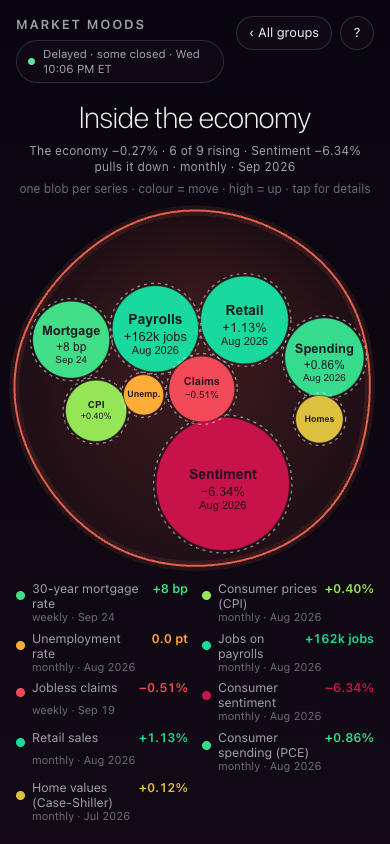
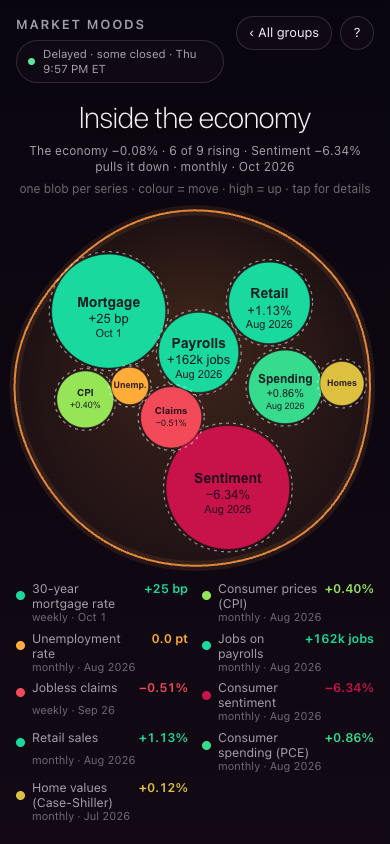
Clark 10-01: Central banks group (IMF IRFCL gold, COFER, BIS + FRED balance sheets), trade by country, more shipping, two rows at every width
- cbanks: 16 live keyless series; Russia + crypto listed as missing with reasons. check.js pins each to its real-world band (a unit slip is 1000x), trade balances to $ million under $60 bn; both mutation-tested RED.
- front page: economy row always under the stocks (Clark: "2 rows, not one long one"); radius capped by free height on wide screens; economy-check asserts every economy label under every index label (mutant RED).
- loop.sh: econ hours (Sun 18:00-Fri 17:00 ET) instead of "always"; LOOP_FORCE=chain proves the dispatch hand-off; market grace to 16:25.

diff --git a/index.html b/index.html
@@ -271,7 +271,7 @@
     <dt>Colour</dt><dd>Today's move from yesterday's close. Red is falling, amber is flat, green is rising.</dd>
     <dt>Height</dt><dd>Rising indexes float up; falling ones sink. The top and bottom of the lamp are a 1% move.</dd>
     <dt>Size</dt><dd>Bigger means a bigger move either way. A quiet index is a small blob.</dd>
-    <dt>Economy</dt><dd>The smaller blobs on the right are the economy's groups: energy, metals, farm goods, rates and the dollar, the slow numbers, debt and money, and shipping and trade. Same colour, height and size rules; each shows its latest move (they do not replay the day), and some are weekly, monthly, quarterly or yearly numbers. On a phone they ride in their own lower row. Tap one, or its name, to see its members.</dd>
+    <dt>Economy</dt><dd>The smaller blobs in the lower row are the economy's groups: energy, metals, farm goods, rates and the dollar, the slow numbers, debt and money, shipping and trade, and the central banks. Same colour, height and size rules; each shows its latest move (they do not replay the day), and some are weekly, monthly, quarterly or yearly numbers. They ride in their own row below the four indexes. Tap one, or its name, to see its members.</dd>
     <dt>Motion</dt><dd>How choppy the last hour was. A steady index drifts slowly and stays whole; a choppy one churns and throws off droplets.</dd>
     <dt>Mood</dt><dd>The average move of the four: Fearful, Uneasy, Calm, Buoyant or Euphoric.</dd>
     <dt>Fear</dt><dd id="helpFear">The VIX, the market's own fear gauge.</dd>
@@ -672,14 +672,14 @@
 
   function draw() {
     const W = canvas.width, H = canvas.height, aspect = W / H;
-    // wide screens: index lanes full width, economy lanes 0.6 of one, a half-lane gap between the two
-    // families so their wax fields never fuse. Narrow (phone): stocks ride the upper row and the
-    // economy the lower one, each family spread over the whole width, each with its own up/down band.
-    const stacked = econ.length > 0 && aspect < 0.8;
+    // Stocks ride the upper row and the economy the lower one, each family spread over the whole width, each with its own up/down band.
+    const stacked = econ.length > 0;   // two rows at EVERY width (Clark 10-01: "2 rows, not one long one")
     const EW = 0.6, GAP = econ.length && !stacked ? 0.5 : 0;
     const laneW = stacked ? aspect / 4 : aspect / (4 + GAP + EW * econ.length);
     const wE = stacked ? aspect / Math.max(1, econ.length) : laneW * EW, x0E = stacked ? 0 : (4 + GAP) * laneW;
-    const baseR = Math.min(laneW * 0.34, 0.095) * pulseNow;   // the heartbeat: exactly 1 when pulseAmp is 0
+    // two rows must fit the free height between the mood block and the timeline: on a wide screen the old 0.095
+    // radius filled it with the stocks alone, so cap the radius by that height (phones stay lane-limited).
+    const free = travel(0), baseR = Math.min(laneW * 0.34, 0.095, (free[1] - free[0]) * 0.13) * pulseNow;   // the heartbeat: exactly 1 when pulseAmp is 0
     const band = travel(baseR * 1.4 * 1.25);   // biggest blob (size 1.4) with its droplets bunched: body edge at (Σr⁴)^¼ ≈ 1.23 R
     const span = band[1] - band[0];
     const bandI = stacked ? [band[0] + span * 0.55, band[1]] : band, bandE = stacked ? [band[0], band[0] + span * 0.22] : band;
@@ -709,7 +709,7 @@
         cols[n * 3] = L.col[0]; cols[n * 3 + 1] = L.col[1]; cols[n * 3 + 2] = L.col[2];
         n++;
       });
-      L.tagX = cx / aspect; L.tagY = isE && stacked ? bandE[0] - wE * 0.36 - 0.045 : low - 0.035;   // under the blob; a phone's economy row shares one baseline
+      L.tagX = cx / aspect; L.tagY = isE && stacked ? bandE[0] - Math.min(wE * 0.36, baseR * 1.4 * 0.75) - 0.045 : low - 0.035;   // under the blob; a phone's economy row shares one baseline
       top[isE ? 1 : 0] = Math.max(top[isE ? 1 : 0], L.hy + (L.hitR || 0) / 1.5);
     });
     // captions glide with small bobs and snap on a first sight or a big change (data just arrived)

diff --git a/check.js b/check.js
@@ -240,7 +240,7 @@ ok(M.econSlow({ freq: "monthly" }) && M.econSlow({ freq: "weekly" }) && !M.econS
   if (!fs.existsSync(ef)) console.log("… data/economy.json missing: the economy page shows its honest 'couldn't load' notice");
   else {
     const e = JSON.parse(fs.readFileSync(ef, "utf8")), today = Date.now() / 1000, day = 86400;
-    ok(e.groups.map(g => g.key).join() === "energy,metals,farm,rates,macro,debt,shipping", "economy: the seven groups, in order: " + e.groups.map(g => g.key));
+    ok(e.groups.map(g => g.key).join() === "energy,metals,farm,rates,macro,debt,shipping,cbanks", "economy: the eight groups, in order: " + e.groups.map(g => g.key));
     const seen = new Set(), all = [];
     for (const g of e.groups) {
       ok(g.members.length >= 3, `${g.key}: at least 3 members live (${g.members.length})`);
@@ -272,6 +272,19 @@ ok(M.econSlow({ freq: "monthly" }) && M.econSlow({ freq: "weekly" }) && !M.econS
       const live = seen.has(key), miss = e.missing.find(x => x.name.toLowerCase().includes(word.toLowerCase()));
       ok(live || (miss && miss.why.length > 10), `asked-for ${key}: live, or missing with a reason`);
       ok(!(live && miss), `${key}: not both live and missing`);
+    }
+    // central-bank numbers come from a CSV with unit scales (ounces vs tonnes, USD vs local, trillions): a wrong scale is
+    // off by 1000x, so pin each to its real-world band (gold: US ~8,133 t, Germany ~3,350 t, China ~2,300 t; COFER ~$13 tn, USD ~57%)
+    const band = { goldUSA: [7500, 8800], goldDEU: [3000, 3700], goldITA: [2200, 2700], goldFRA: [2200, 2700], goldCHN: [1800, 3500], goldIND: [600, 1200],
+      goldPOL: [300, 1200], goldTUR: [300, 1300], fxReserves: [8, 20], usdShare: [40, 75], fedAssets: [5e6, 9e6], ecbAssets: [4e6, 9e6],
+      boeAssets: [500, 1500], pbocAssets: [30000, 90000], snbAssets: [500, 1500] };
+    for (const [key, [lo, hi]] of Object.entries(band)) {
+      const m = all.find(x => x.key === key);
+      ok(m && m.last >= lo && m.last <= hi, `central banks: ${key} ${m && m.last} sits in its real-world band ${lo}..${hi}`);
+    }
+    for (const c of ["CH", "CA", "MX", "JP", "KR", "UK", "GE", "FR"]) {
+      const m = all.find(x => x.key === "trade" + c);
+      ok(m && m.kind === "bn" && Math.abs(m.last) < 60000, `trade with ${c}: a balance in $ million under $60 bn (${m && m.last})`);
     }
     ok(e.missing.every(x => x.group && x.name && x.why), "economy: every missing series says which group, what, and why");
     ok(all.length >= 20, `economy: ${all.length} series live`);

diff --git a/economy.html b/economy.html
@@ -5,7 +5,7 @@
 <meta name="viewport" content="width=device-width,initial-scale=1,viewport-fit=cover">
 <meta name="theme-color" content="#0a0610">
 <title>Market Moods: the economy</title>
-<meta name="description" content="A moving picture of the economy: energy, metals, farm goods, rates and the dollar, the slow macro numbers, debt and money, and shipping and trade, each group a blob with its members inside.">
+<meta name="description" content="A moving picture of the economy: energy, metals, farm goods, rates and the dollar, the slow macro numbers, debt and money, shipping and trade, and the central banks, each group a blob with its members inside.">
 <style>
   :root { --bg: #0a0610; --ink: #f4ecf7; --ink-2: rgba(244, 236, 247, .66); --ink-3: rgba(244, 236, 247, .42);
     --glass: rgba(20, 12, 26, .55); --line: rgba(244, 236, 247, .14); --up: #5fe39e; --down: #ff6b7a; --flat: #ffb13b; }
@@ -169,7 +169,7 @@
 <dialog id="help" aria-labelledby="helpTitle">
   <h2 id="helpTitle">How to read it</h2>
   <dl>
-    <dt>Blob</dt><dd>One group of alike things: energy, metals, farm goods, rates and the dollar, the economy's slow numbers, debt and money, and shipping and trade. Tap a blob to go inside and see each member.</dd>
+    <dt>Blob</dt><dd>One group of alike things: energy, metals, farm goods, rates and the dollar, the economy's slow numbers, debt and money, shipping and trade, and the central banks. Tap a blob to go inside and see each member.</dd>
     <dt>Colour</dt><dd>The move, on the same scale as the stock lamp: amber is flat, green rising, red falling, full at 1%. It follows the direction of the number, not whether that is good news: rising unemployment is green here, like rising oil.</dd>
     <dt>Height</dt><dd>Up floats, down sinks. Inside a group the reach is 2.5%, as inside a company view.</dd>
     <dt>Size</dt><dd>A bigger move is a bigger blob. There is no market value to size a price by.</dd>

diff --git a/fetch.py b/fetch.py
@@ -23,7 +23,7 @@ company's move from its previous official close, in basis points (0.01%), on tha
 
 usage: fetch.py [--out data/market.json] | fetch.py --companies | fetch.py --selfcheck
 """
-import html, http.cookiejar, json, pathlib, re, sys, time, urllib.request
+import csv, html, http.cookiejar, io, json, pathlib, re, ssl, sys, time, urllib.error, urllib.request
 from datetime import datetime, timedelta, timezone
 from zoneinfo import ZoneInfo
 
@@ -284,10 +284,15 @@ SOURCE_NOTE = {
 MIN_PRICED = {"dow": 27, "sp500": 450, "nasdaq": 400, "russell": 400}
 
 def market_open(now=None):
-    """Pure: is NYSE in its regular session (Mon-Fri 9:30-16:05 ET; 5 min grace for the last bar)?
+    """Pure: is NYSE in its regular session (Mon-Fri 9:30-16:25 ET; the grace after the bell lets one last round catch the closing bars)?
     ponytail: holidays are not modelled - on one the loop just refetches an unchanged file and commits nothing."""
     n = (now or datetime.now(ET)).astimezone(ET)
-    return n.weekday() < 5 and (9, 30) <= (n.hour, n.minute) <= (16, 5)
+    return n.weekday() < 5 and (9, 30) <= (n.hour, n.minute) <= (16, 25)
+
+def econ_open(now=None):
+    """Pure: do the economy's futures trade (CME: Sun 18:00 ET to Fri 17:00 ET)? The daily 1-hour break is ignored."""
+    n = (now or datetime.now(ET)).astimezone(ET); w, hm = n.weekday(), (n.hour, n.minute)   # Mon=0 .. Sun=6
+    return not (w == 5 or (w == 4 and hm >= (17, 0)) or (w == 6 and hm < (18, 0)))
 
 def build_companies(market, index="sp500"):
     ix = next(i for i in market["indexes"] if i["key"] == index)
@@ -373,23 +378,54 @@ ECON = [
         ("trade", "Trade balance", "f", "BOPGSTB", "bn", "$ million / month", "monthly"),
         ("cassShip", "Freight shipments (Cass)", "f", "FRGSHPUSM649NCIS", "pct", "index", "monthly"),
         ("cassSpend", "Freight spending (Cass)", "f", "FRGEXPUSM649NCIS", "pct", "index", "monthly"),
-        ("trucking", "Trucking prices (PPI)", "f", "PCU484121484121", "pct", "index", "monthly")]),
+        ("trucking", "Trucking prices (PPI)", "f", "PCU484121484121", "pct", "index", "monthly"),
+        ("railCars", "Rail freight carloads", "f", "RAILFRTCARLOADSD11", "pct", "carloads / month", "monthly"),
+        ("railBox", "Rail intermodal (containers on trains)", "f", "RAILFRTINTERMODAL", "pct", "units / month", "monthly"),
+        ("tsi", "Freight services index (all modes)", "f", "TSIFRGHT", "pct", "index", "monthly"),
+        ("truckTons", "Truck tonnage", "f", "TRUCKD11", "pct", "index", "monthly"),
+        ("imports", "Import prices", "f", "IR", "pct", "index", "monthly"),
+        ("exports", "Export prices", "f", "IQ", "pct", "index", "monthly"),
+        ("tradeCH", "US trade balance with China", "t", "EXPCH:IMPCH", "bn", "$ million / month", "monthly"),
+        ("tradeCA", "US trade balance with Canada", "t", "EXPCA:IMPCA", "bn", "$ million / month", "monthly"),
+        ("tradeMX", "US trade balance with Mexico", "t", "EXPMX:IMPMX", "bn", "$ million / month", "monthly"),
+        ("tradeJP", "US trade balance with Japan", "t", "EXPJP:IMPJP", "bn", "$ million / month", "monthly"),
+        ("tradeKR", "US trade balance with South Korea", "t", "EXPKR:IMPKR", "bn", "$ million / month", "monthly"),
+        ("tradeUK", "US trade balance with United Kingdom", "t", "EXPUK:IMPUK", "bn", "$ million / month", "monthly"),
+        ("tradeGE", "US trade balance with Germany", "t", "EXPGE:IMPGE", "bn", "$ million / month", "monthly"),
+        ("tradeFR", "US trade balance with France", "t", "EXPFR:IMPFR", "bn", "$ million / month", "monthly")]),
+    ("cbanks", "Central banks", "Central banks", [
+        ("fedAssets", "Fed holdings (balance sheet)", "f", "WALCL", "pct", "$ million held", "weekly"),
+        ("ecbAssets", "ECB holdings (balance sheet)", "f", "ECBASSETSW", "pct", "\u20ac million held", "weekly"),
+        ("bojAssets", "Bank of Japan holdings (balance sheet)", "f", "JPNASSETS", "pct", "\u00a5 100 million held", "monthly"),
+        ("boeAssets", "Bank of England holdings (balance sheet)", "m", "bis:GB", "pct", "\u00a3 billion held", "quarterly"),
+        ("pbocAssets", "People's Bank of China holdings (balance sheet)", "m", "bis:CN", "pct", "\u00a5 billion held", "quarterly"),
+        ("snbAssets", "Swiss National Bank holdings (balance sheet)", "m", "bis:CH", "pct", "CHF billion held", "quarterly"),
+        ("goldUSA", "Gold held: United States", "m", "irfcl:USA", "pct", "tonnes", "monthly"),
+        ("goldDEU", "Gold held: Germany", "m", "irfcl:DEU", "pct", "tonnes", "monthly"),
+        ("goldITA", "Gold held: Italy", "m", "irfcl:ITA", "pct", "tonnes", "monthly"),
+        ("goldFRA", "Gold held: France", "m", "irfcl:FRA", "pct", "tonnes", "monthly"),
+        ("goldCHN", "Gold held: China", "m", "irfcl:CHN", "pct", "tonnes", "monthly"),
+        ("goldIND", "Gold held: India", "m", "irfcl:IND", "pct", "tonnes", "monthly"),
+        ("goldPOL", "Gold held: Poland", "m", "irfcl:POL", "pct", "tonnes", "monthly"),
+        ("goldTUR", "Gold held: Turkey", "m", "irfcl:TUR", "pct", "tonnes", "monthly"),
+        ("fxReserves", "World FX reserves (all central banks)", "m", "cofer:CI_T:NV_USD", "pct", "$ trillion", "quarterly"),
+        ("usdShare", "US dollar share of FX reserves", "m", "cofer:CI_USD:SHRO_PT", "pct", "% of allocated reserves", "quarterly")]),
 ]
 # things Clark asked for that no free keyless source carries: listed on the page, never faked
 ECON_SHORT = {"mortgage": "Mortgage", "cpi": "CPI", "unemp": "Unemp.", "payrolls": "Payrolls", "claims": "Claims",
               "sentiment": "Sentiment", "retail": "Retail", "spending": "Spending", "homes": "Homes", "dollar": "Dollar", "t3m": "3-month", "t5y": "5-year",
               "t10y": "10-year", "t30y": "30-year", "natgas": "Nat. gas", "heatoil": "Heating oil", "steel": "Steel",
               "aluminium": "Aluminium", "brent": "Brent", "wti": "WTI", "credit": "Credit", "cards": "Cards", "fedDebt": "Fed. debt",
-              "m1": "M1", "worldDebt": "World debt", "trade": "Trade", "cassShip": "Shipments", "cassSpend": "Freight $",
+              "m1": "M1", "railCars": "Rail cars", "railBox": "Intermodal", "tsi": "Freight idx", "truckTons": "Tonnage", "imports": "Imports $", "exports": "Exports $", "tradeCH": "China", "tradeCA": "Canada", "tradeMX": "Mexico", "tradeJP": "Japan", "tradeKR": "S. Korea", "tradeUK": "UK", "tradeGE": "Germany", "tradeFR": "France", "goldUSA": "US", "goldDEU": "Germany", "goldITA": "Italy", "goldFRA": "France", "goldCHN": "China", "goldIND": "India", "goldPOL": "Poland", "goldTUR": "Turkey", "boeAssets": "BoE", "pbocAssets": "PBoC", "snbAssets": "SNB", "fxReserves": "FX reserves", "usdShare": "USD share",  "fedAssets": "Fed", "ecbAssets": "ECB", "bojAssets": "BoJ", "worldDebt": "World debt", "trade": "Trade", "cassShip": "Shipments", "cassSpend": "Freight $",
               "trucking": "Trucking", "feeder": "Feeder", "oj": "OJ", "cattle": "Cattle", "rice": "Rice", "hogs": "Hogs"}     # a blob's label; the full name rides in the tooltip
 ECON_MISSING = [("metals", "Cobalt", "no free public price series (LME and Fastmarkets are paid; FRED has none)"),
                 ("energy", "Propane", "Yahoo lists Mont Belvieu propane (B0=F) but it printed once in 5 days: too thin for a move"),
                 ("energy", "Ethanol", "Yahoo's ethanol future (EH=F) returns no prices; no other free keyless feed"),
                 ("shipping", "Baltic Dry Index", "licensed by the Baltic Exchange; no free feed (Cass freight indexes stand in)"),
                 ("shipping", "UPS / FedEx rates", "published as rate cards, not a data feed"),
-                ("shipping", "Trade by country", "the Census trade API now requires a key"),
-                ("debt", "Central-bank reserve holdings", "gold held by central banks: the IMF reserves API returned no data when tested; World Gold Council needs a login"),
-                ("debt", "Central-bank crypto holdings", "no official series: only private trackers' estimates")]
+                ("shipping", "Trade between other country pairs", "only pairs with the US come free (FRED, from the Census); other pairs need a Census/UN key or are over a year old"),
+                ("cbanks", "Reserves reported by Russia and a few others", "not every central bank reports every month to the IMF: Russia's last gold report is months old, so it is left out rather than shown stale"),
+                ("cbanks", "Central-bank crypto holdings", "no central bank reports holding any; the only figures are one-off third-party estimates of government wallets (CoinGecko lists China ~190,000 BTC, Bhutan ~10,800) with no history to measure a move from")]
 
 def parse_fred(text):
     """[(date 'YYYY-MM-DD', value)] from a fredgraph.csv; FRED's '.' (no reading) rows are dropped."""
@@ -430,13 +466,13 @@ def econ_yahoo(spec, daily, intraday):
             "asof": datetime.fromtimestamp(lt, ET).date().isoformat(),
             "bars": [[t, round(c, 4)] for t, c in i[-24:]] if live else []}
 
-def econ_fred(spec, rows):
+def econ_fred(spec, rows, src=None):
     """Pure. A slow member: its latest reading vs the one before, dated by the reading's own date."""
     key, name, _, sid, kind, unit, freq = spec
     if len(rows) < 2: raise ValueError(f"{sid}: fewer than two readings")
     (pd_, prev), (ld, last) = rows[-2], rows[-1]
     m = {"key": key, "name": name, "sym": sid, "kind": kind, "unit": unit, "freq": freq,
-         "src": f"IMF World Economic Outlook ({sid}, estimate)" if spec[2] == "i" else f"FRED ({sid})", "prev": prev, "last": last, "asof": ld, "prev_asof": pd_}
+         "src": src or (f"IMF World Economic Outlook ({sid}, estimate)" if spec[2] == "i" else f"FRED ({sid})"), "prev": prev, "last": last, "asof": ld, "prev_asof": pd_}
     if freq == "monthly" and kind == "pct" and len(rows) > 12:
         m["yoy"] = round((last / rows[-13][1] - 1) * 100, 2)      # against the same month a year before
     return m
@@ -465,6 +501,76 @@ def get_imf(spec):
             return parse_imf(json.load(r), ind, area, datetime.now(timezone.utc).year)
     return _retry(call)
 
+
+# --- IMF International Reserves (IRFCL: gold), IMF COFER (reserve currencies), BIS central-bank assets, US bilateral trade ---
+# All free and keyless. api.imf.org sends an INCOMPLETE certificate chain (curl exit 60, urllib CERTIFICATE_VERIFY_FAILED on
+# a Mac; untested on a runner): on that one error we retry unverified. ponytail: this is public read-only statistics, so a
+# swapped file is the only risk; every value is range-checked (check.js) and the page names the source. Upgrade: pin the
+# IMF intermediate cert, or fetch via DBnomics' mirror (a year behind).
+_csv_cache = {}
+def get_csv(url, accept="text/csv"):
+    if url in _csv_cache: return _csv_cache[url]
+    def call():
+        req = urllib.request.Request(url, headers={"User-Agent": "Mozilla/5.0 market-moods", "Accept": accept})
+        try: r = urllib.request.urlopen(req, timeout=60)
+        except urllib.error.URLError as e:
+            if not isinstance(e.reason, ssl.SSLCertVerificationError): raise
+            r = urllib.request.urlopen(req, timeout=60, context=ssl._create_unverified_context())
+        with r: return list(csv.DictReader(io.StringIO(r.read().decode("utf-8-sig"))))
+    _csv_cache[url] = _retry(call)
+    return _csv_cache[url]
+
+OZ_PER_TONNE = 32150.7466
+IMF_SDMX = "https://api.imf.org/external/sdmx/2.1/data/"
+SDMX_CSV = "application/vnd.sdmx.data+csv;version=1.0.0"
+GOLD_COUNTRIES = "+".join(sp[3].split(":")[1] for g in ECON for sp in g[3] if sp[3].startswith("irfcl:"))
+def _per(p):
+    """'2026-M08' -> '2026-08-01', '2026-Q2' -> '2026-04-01' (first day of the period)."""
+    y, _, r = p.partition("-")
+    return f"{y}-{int(r[1:]):02d}-01" if r[0] == "M" else f"{y}-{3 * (int(r[1:]) - 1) + 1:02d}-01"
+
+def parse_irfcl_gold(rows, ctry):
+    """Pure. [(date, tonnes)] of one country's official gold (IRFCL, fine troy ounces / 32150.75). Monetary authorities
+    + central government (S1XS1311) when the country reports it, else S1X; duplicates dropped."""
+    mine = [r for r in rows if r["COUNTRY"] == ctry and r["OBS_VALUE"] not in ("", None)]
+    for sec in ("S1XS1311", "S1X"):
+        pick = {r["TIME_PERIOD"]: float(r["OBS_VALUE"]) for r in mine if r["SECTOR"] == sec}
+        if pick: break
+    else: pick = {}
+    return [(_per(p), v / OZ_PER_TONNE) for p, v in sorted(pick.items())]
+
+def parse_cofer(rows, cur, tr):
+    """Pure. [(date, value)] for the world allocated reserves in one currency: tr SHRO_PT = share in %, NV_USD = $ trillion."""
+    div = 1e12 if tr == "NV_USD" else 1
+    pick = {r["TIME_PERIOD"]: float(r["OBS_VALUE"]) / div for r in rows
+            if r["COUNTRY"] == "G001" and r["INDICATOR"] == "AFXRA" and r["FXR_CURRENCY"] == cur and r["TYPE_OF_TRANSFORMATION"] == tr and r["OBS_VALUE"]}
+    return [(_per(p), v) for p, v in sorted(pick.items())]
+
+def parse_bis_assets(rows, area):
+    """Pure. [(date, billions of the bank's own currency)] - total assets, own currency (not USD: the dollar would
+    move the number on a day the bank did nothing). The file repeats rows; one per quarter."""
+    pick = {r["TIME_PERIOD"]: float(r["OBS_VALUE"]) * 10 ** (int(r["UNIT_MULT"]) - 9) for r in rows
+            if r["REF_AREA"] == area and r["UNIT_MEASURE"] == "XDC" and r["OBS_VALUE"]}
+    return [(_per(p), v) for p, v in sorted(pick.items())]
+
+def get_sdmx(code):
+    """(rows, src) for a spec code: irfcl:USA | cofer:CI_USD:SHRO_PT | bis:CN."""
+    kind, _, arg = code.partition(":")
+    if kind == "irfcl":
+        rows = get_csv(f"{IMF_SDMX}IMF.STA,IRFCL/{GOLD_COUNTRIES}.IRFCLDT1_IRFCL56V_FTO.*.M?lastNObservations=6", SDMX_CSV)
+        return parse_irfcl_gold(rows, arg), "IMF International Reserves (IRFCL), gold as each country reports it"
+    if kind == "cofer":
+        cur, tr = arg.split(":")
+        rows = get_csv(f"{IMF_SDMX}IMF.STA,COFER/G001.AFXRA.CI_USD+CI_T.SHRO_PT+NV_USD.Q?lastNObservations=6", SDMX_CSV)
+        return parse_cofer(rows, cur, tr), "IMF COFER (currency composition of official reserves, world total)"
+    rows = get_csv(f"https://stats.bis.org/api/v2/data/dataflow/BIS/WS_CBTA/1.0/Q.{arg}?lastNObservations=6&format=csv")
+    return parse_bis_assets(rows, arg), "BIS central bank total assets (own currency)"
+
+def get_trade(code):
+    """Pure-ish. 'EXPCH:IMPCH' -> [(date, exports - imports in $ million)] on the months both series have."""
+    ex, im = (dict(get_fred(x)) for x in code.split(":"))
+    return [(d, ex[d] - im[d]) for d in sorted(ex) if d in im]
+
 def build_economy(prev=None):
     old = {m["key"]: m for g in (prev or {}).get("groups", []) for m in g["members"]}   # last good file, for a series that fails right now
     groups, missing = [], [{"group": g, "name": n, "why": w} for g, n, w in ECON_MISSING]
@@ -478,6 +584,10 @@ def build_economy(prev=None):
                     mem.append(econ_yahoo(spec, get(spec[3], "1d", "1mo"), intr)); time.sleep(0.3)
                 elif spec[2] == "i":
                     mem.append(econ_fred(spec, get_imf(spec[3])))
+                elif spec[2] == "m":
+                    rows_, src_ = get_sdmx(spec[3]); mem.append(econ_fred(spec, rows_, src_))
+                elif spec[2] == "t":
+                    mem.append(econ_fred(spec, get_trade(spec[3]), "FRED (Census data): exports minus imports, " + spec[3]))
                 else:
                     mem.append(econ_fred(spec, get_fred(spec[3])))
             except Exception as e:      # one dead series never blocks the rest, and is never faked
@@ -514,9 +624,24 @@ def selfcheck():
     d22 = int(datetime(2026, 9, 22, 11, 0, tzinfo=ET).timestamp())
     s2 = shape("sp500", "S&P 500", "^GSPC", {"timestamp": [d22, t0], "indicators": {"quote": [{"close": [97.0, 101.0]}]}}, daily)
     assert [x["date"] for x in s2["sessions"]] == ["2026-09-25"], s2["sessions"]
+    # central-bank parsers on the IMF/BIS CSV shapes (a unit slip is off by 1000x, a sector slip shows GBR's 0 t)
+    ir = [dict(COUNTRY="GBR", SECTOR="S1X", TIME_PERIOD="2026-M08", OBS_VALUE="0"), dict(COUNTRY="GBR", SECTOR="S1XS1311", TIME_PERIOD="2026-M08", OBS_VALUE="9976041.279"),
+          dict(COUNTRY="DEU", SECTOR="S1X", TIME_PERIOD="2026-M07", OBS_VALUE="107683051.528"), dict(COUNTRY="DEU", SECTOR="S1X", TIME_PERIOD="2026-M08", OBS_VALUE="107676802.209"),
+          dict(COUNTRY="DEU", SECTOR="S1XS1311", TIME_PERIOD="2026-M08", OBS_VALUE="107676802.209")]
+    assert parse_irfcl_gold(ir, "GBR") == [("2026-08-01", 9976041.279 / OZ_PER_TONNE)], "prefers S1XS1311 over a zero S1X"
+    g = parse_irfcl_gold(ir, "DEU"); assert [d for d, _ in g] == ["2026-08-01"] and 3349 < g[0][1] < 3350, g
+    cf = [dict(COUNTRY="G001", INDICATOR="AFXRA", FXR_CURRENCY="CI_USD", TYPE_OF_TRANSFORMATION=t, TIME_PERIOD=p, OBS_VALUE=v)
+          for t, p, v in [("SHRO_PT", "2026-Q1", "57.17"), ("SHRO_PT", "2026-Q2", "56.70"), ("NV_USD", "2026-Q2", "7494549610004.36")]]
+    assert parse_cofer(cf, "CI_USD", "SHRO_PT") == [("2026-01-01", 57.17), ("2026-04-01", 56.70)] and abs(parse_cofer(cf, "CI_USD", "NV_USD")[0][1] - 7.4945) < 1e-3
+    bs = [dict(REF_AREA="GB", UNIT_MEASURE=u, UNIT_MULT="9", TIME_PERIOD="2026-Q2", OBS_VALUE=v) for u, v in [("XDC", "799.187"), ("XDC", "799.187"), ("USD", "1070.0")]]
+    assert parse_bis_assets(bs, "GB") == [("2026-04-01", 799.187)], "own currency, one row per quarter"
+    assert _per("2026-Q4") == "2026-10-01" and _per("2026-M08") == "2026-08-01"
+    eo = lambda *a: econ_open(datetime(*a, tzinfo=ET))
+    assert eo(2026, 10, 1, 3, 0) and eo(2026, 10, 2, 16, 59) and not eo(2026, 10, 2, 17, 0) and not eo(2026, 10, 3, 12, 0) \
+        and not eo(2026, 10, 4, 17, 59) and eo(2026, 10, 4, 18, 0), "econ_open window"   # Fri 17:00 ET close .. Sun 18:00 ET open
     mo = lambda *a: market_open(datetime(*a, tzinfo=ET))
-    assert mo(2026, 10, 1, 9, 30) and mo(2026, 10, 1, 16, 5) and not mo(2026, 10, 1, 9, 29) \
-        and not mo(2026, 10, 1, 16, 6) and not mo(2026, 10, 3, 11, 0), "market_open window"   # Sat closed
+    assert mo(2026, 10, 1, 9, 30) and mo(2026, 10, 1, 16, 25) and not mo(2026, 10, 1, 9, 29) \
+        and not mo(2026, 10, 1, 16, 26) and not mo(2026, 10, 3, 11, 0), "market_open window"   # Sat closed
     # companies: two members, one day on the index's clock [t0, t0+300, t0+600]
     sess = [{"date": "2026-09-25", "bars": [[t0, 1.0, 100], [t0 + 300, 1.0, None], [t0 + 600, 1.0, 5]]}]   # the REAL bar shape: [t, close, volume]
     daily_c = {"AAA": [(d24, 200.0), (t0, 999.0)], "BBB": [(d24, 50.0)], "CCC": [(d24, 10.0)]}
@@ -555,7 +680,7 @@ def selfcheck():
     imf = {"values": {"D": {"W": {"2023": 90.8, "2024": 92, "2025": 93.9, "2026": 95.3, "2027": 97.2}}}}
     assert parse_imf(imf, "D", "W", 2026) == [("2023-01-01", 90.8), ("2024-01-01", 92.0), ("2025-01-01", 93.9)]
     # every ECON spec has a known source and rhythm (a typo'd "q" would silently land in the FRED branch)
-    assert all(s[2] in "yfi" and s[6] in ("5min", "weekly", "monthly", "quarterly", "yearly") for _, _, _, sp in ECON for s in sp)
+    assert all(s[2] in "yfimt" and s[6] in ("5min", "weekly", "monthly", "quarterly", "yearly") for _, _, _, sp in ECON for s in sp)
     # economy: parse_fred drops '.' rows; a member is last-vs-the-close-before, dated by its own reading
     rows = parse_fred("observation_date,X\n2026-06-01,10\n2026-07-01,.\n2026-08-01,12.5\n")
     assert rows == [("2026-06-01", 10.0), ("2026-08-01", 12.5)], rows
@@ -608,6 +733,8 @@ if __name__ == "__main__":
         sys.exit(0)
     if "--market-open" in sys.argv:
         sys.exit(0 if market_open() else 1)
+    if "--econ-open" in sys.argv:
+        sys.exit(0 if econ_open() else 1)
     if "--companies" in sys.argv:
         here = pathlib.Path(__file__).parent / "data"
         i = sys.argv.index("--companies")
